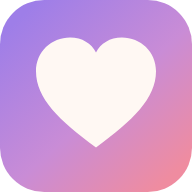
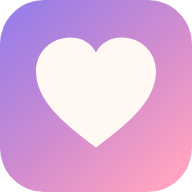
Repaginada visual: mais rosa, tema princesa discreto, toques fluidos
- Novo acento --rosa (calibrado pra WCAG AA) usado como cor secundária:
  pílula da aba ativa, chip/filtro selecionado (Consultas, Mural,
  seletor de bichinho), chips de horário rápido. --lavanda continua
  sendo a cor primária de botões/links — rosa é tempero, não troca.
- Gradiente do cabeçalho e brilho da carteirinha mais quentes/rosados.
- Ícone do app e logo regenerados pra combinar com o gradiente novo
  (coração da marca agora é rosa).
- Nova curva de easing --rebote (leve quique na soltura do toque, sem
  pesar no aperto) aplicada em cards, botões, filtros, atalhos e chips.
- Anel de brilho rosa sutil ao tocar num card, que some com a mesma
  curva de retorno.

Changed region(s): [[0.6562, 0.6875, 1.0, 1.0]]

diff --git a/index.html b/index.html
@@ -27,6 +27,12 @@
   --sol:#FFC94A;
   --ceu:#6FBBEE;
   --uva:#E6A2D6;
+  --rosa:#C93468;
+  --rosa-clara:#FCE0ED;
+  --rosa-sombra:#A22752;
+  /* Curva com leve "quique" pro momento de soltar o toque — o aperto em
+     si continua rápido (Emil), só o retorno ganha um pouco de vida (Jhey). */
+  --rebote:cubic-bezier(.34,1.56,.64,1);
 }
 *{box-sizing:border-box;-webkit-tap-highlight-color:transparent}
 [hidden]{display:none!important}
@@ -68,10 +74,10 @@ svg{display:block}
 .carteirinha{
   position:relative;width:100%;text-align:left;background:var(--nuvem);
   border-radius:26px 26px 10px 10px;padding:18px 18px 24px;
-  box-shadow:0 10px 0 -2px rgba(160,143,230,.16), 0 20px 34px -20px rgba(70,52,81,.5);
-  transition:transform .16s
+  box-shadow:0 10px 0 -2px rgba(224,120,164,.18), 0 20px 34px -20px rgba(70,52,81,.5);
+  transition:transform .3s var(--rebote)
 }
-.carteirinha:active{transform:scale(.985)}
+.carteirinha:active{transform:scale(.982);transition-duration:.09s;transition-timing-function:ease-out}
 .carteirinha::after{
   content:"";position:absolute;left:0;right:0;bottom:-9px;height:10px;
   background:radial-gradient(circle at 6px -1px, transparent 6px, var(--nuvem) 6.5px) repeat-x;
@@ -85,7 +91,7 @@ svg{display:block}
 .cart-topo{display:flex;gap:14px;align-items:center}
 .avatar{
   width:66px;height:66px;flex:0 0 66px;border-radius:23px;display:grid;place-items:center;
-  font-size:35px;background:linear-gradient(160deg,#FFE9F3,#EAE2FF);
+  font-size:35px;background:linear-gradient(160deg,#FFDCEC,#EAE2FF);
   box-shadow:inset 0 -3px 0 rgba(70,52,81,.05);
   animation:pula 3s ease-in-out infinite
 }
@@ -106,7 +112,7 @@ svg{display:block}
   margin:0 -16px;padding:16px 22px 96px;
   background:
     linear-gradient(180deg, rgba(40,24,54,.16), rgba(40,24,54,0) 55%),
-    linear-gradient(158deg,#9E7EE8 0%,#C98CD6 48%,#EF8CA0 100%);
+    linear-gradient(158deg,#9C7EE6 0%,#D48DCE 48%,#FFA3C0 100%);
   border-radius:0 0 36px 36px;color:#fff;position:relative;overflow:hidden
 }
 .hero::after{
@@ -127,9 +133,9 @@ svg{display:block}
   flex:1;background:var(--nuvem);border-radius:18px;padding:13px 8px 11px;
   display:flex;flex-direction:column;align-items:center;gap:7px;
   font-size:11.5px;font-weight:700;color:var(--tinta2);
-  box-shadow:0 3px 0 -1px rgba(70,52,81,.05);transition:transform .15s
+  box-shadow:0 3px 0 -1px rgba(70,52,81,.05);transition:transform .32s var(--rebote)
 }
-.atalho:active{transform:scale(.95)}
+.atalho:active{transform:scale(.93);transition-duration:.09s;transition-timing-function:ease-out}
 .atalho svg{width:22px;height:22px}
 .ic{fill:none;stroke:currentColor;stroke-width:1.8;stroke-linecap:round;stroke-linejoin:round}
 .ic.mini{width:15px;height:15px;stroke-width:2}
@@ -151,8 +157,8 @@ svg{display:block}
   background:var(--nuvem);border-radius:22px;padding:15px;margin-bottom:10px;
   box-shadow:0 3px 0 -1px rgba(70,52,81,.045), 0 12px 20px -16px rgba(70,52,81,.55)
 }
-.card.link{width:100%;text-align:left;display:block;transition:transform .15s}
-.card.link:active{transform:scale(.978)}
+.card.link{width:100%;text-align:left;display:block;transition:transform .32s var(--rebote),box-shadow .32s var(--rebote)}
+.card.link:active{transform:scale(.972);box-shadow:0 0 0 3px rgba(201,52,104,.16),0 3px 0 -1px rgba(70,52,81,.045),0 12px 20px -16px rgba(70,52,81,.55);transition-duration:.09s;transition-timing-function:ease-out}
 .card.fixado{border:2px solid #FFDE94;background:#FFFDF6;box-shadow:0 3px 0 -1px rgba(192,139,20,.3),0 12px 20px -16px rgba(70,52,81,.55)}
 .card h3{font-size:16.5px}
 .card .sub{color:var(--tinta2);font-size:13.5px;font-weight:600;margin-top:3px}
@@ -182,13 +188,13 @@ svg{display:block}
 /* ---------- filtros ---------- */
 .filtros{display:flex;gap:8px;overflow-x:auto;padding:2px 4px 14px;scrollbar-width:none}
 .filtros::-webkit-scrollbar{display:none}
-.filtro{border-radius:999px;padding:8px 14px;font-size:13.5px;font-weight:700;background:var(--nuvem);color:var(--tinta2);white-space:nowrap;box-shadow:0 3px 0 -1px rgba(70,52,81,.055);transition:transform .15s}
-.filtro[aria-pressed="true"]{background:var(--tinta);color:#fff}
-.filtro:active{transform:scale(.94)}
+.filtro{border-radius:999px;padding:8px 14px;font-size:13.5px;font-weight:700;background:var(--nuvem);color:var(--tinta2);white-space:nowrap;box-shadow:0 3px 0 -1px rgba(70,52,81,.055);transition:transform .3s var(--rebote),background .15s,color .15s}
+.filtro[aria-pressed="true"]{background:var(--rosa);color:#fff}
+.filtro:active{transform:scale(.92);transition-duration:.09s;transition-timing-function:ease-out}
 
 /* ---------- botões ---------- */
-.btn{display:inline-flex;align-items:center;justify-content:center;gap:8px;font-family:"Baloo 2";font-weight:700;font-size:16px;padding:13px 20px;border-radius:17px;background:var(--lavanda);color:#fff;box-shadow:0 5px 0 var(--lavanda-sombra);transition:transform .11s,box-shadow .11s;width:100%}
-.btn:active{transform:translateY(4px);box-shadow:0 1px 0 var(--lavanda-sombra)}
+.btn{display:inline-flex;align-items:center;justify-content:center;gap:8px;font-family:"Baloo 2";font-weight:700;font-size:16px;padding:13px 20px;border-radius:17px;background:var(--lavanda);color:#fff;box-shadow:0 5px 0 var(--lavanda-sombra);transition:transform .34s var(--rebote),box-shadow .34s var(--rebote);width:100%}
+.btn:active{transform:translateY(4px);box-shadow:0 1px 0 var(--lavanda-sombra);transition-duration:.08s;transition-timing-function:ease-out}
 .btn:disabled{opacity:.55}
 .btn.claro{background:var(--nuvem);color:var(--tinta);box-shadow:0 5px 0 var(--linha)}
 .btn.claro:active{box-shadow:0 1px 0 var(--linha)}
@@ -208,7 +214,7 @@ svg{display:block}
 .aba svg{width:23px;height:23px;fill:none;stroke:currentColor;stroke-width:1.9;stroke-linecap:round;stroke-linejoin:round;transition:transform .3s cubic-bezier(.2,1.7,.5,1)}
 .aba[aria-current="true"]{color:var(--tinta)}
 .aba[aria-current="true"] svg{transform:translateY(-2px) scale(1.1);stroke-width:2.2}
-.aba[aria-current="true"]::before{content:"";position:absolute;top:-3px;width:46px;height:34px;border-radius:12px;background:#F1E9FA;z-index:-1;animation:brota .28s cubic-bezier(.2,1.6,.5,1)}
+.aba[aria-current="true"]::before{content:"";position:absolute;top:-3px;width:46px;height:34px;border-radius:12px;background:var(--rosa-clara);z-index:-1;animation:brota .28s cubic-bezier(.2,1.6,.5,1)}
 @keyframes brota{from{transform:scale(.5);opacity:0}to{transform:scale(1);opacity:1}}
 
 /* ---------- botão flutuante ---------- */
@@ -218,11 +224,11 @@ svg{display:block}
   display:grid;place-items:center;
   box-shadow:0 6px 0 #E0644E, 0 16px 24px -12px rgba(224,100,78,.85);
   opacity:0;transform:scale(.9);
-  transition:transform .11s,box-shadow .11s,opacity .18s ease
+  transition:transform .32s var(--rebote),box-shadow .32s var(--rebote),opacity .18s ease
 }
 .mais.visivel{opacity:1;transform:scale(1)}
 .mais svg{width:26px;height:26px;stroke:currentColor;stroke-width:2.6;stroke-linecap:round;filter:drop-shadow(0 1px 1px rgba(70,52,81,.28))}
-.mais:active{transform:translateY(5px) scale(.96);box-shadow:0 1px 0 #E0644E}
+.mais:active{transform:translateY(5px) scale(.96);box-shadow:0 1px 0 #E0644E;transition-duration:.08s;transition-timing-function:ease-out}
 
 /* ---------- folha ---------- */
 .fundo{position:fixed;inset:0;background:rgba(70,52,81,.45);z-index:50;opacity:0;pointer-events:none;transition:opacity .25s}
@@ -239,13 +245,13 @@ textarea{min-height:90px;resize:vertical;line-height:1.55}
 .grade-horas{display:grid;grid-template-columns:repeat(auto-fill,minmax(64px,1fr));gap:7px;margin-top:6px}
 .hora{
   padding:10px 4px;border-radius:13px;background:var(--nuvem);border:2px solid var(--linha);
-  font-weight:700;font-size:14px;color:var(--tinta2);transition:transform .12s
+  font-weight:700;font-size:14px;color:var(--tinta2);transition:transform .22s var(--rebote)
 }
-.hora:active{transform:scale(.93)}
+.hora:active{transform:scale(.91);transition-duration:.07s;transition-timing-function:ease-out}
 .hora.on{background:var(--lavanda);border-color:var(--lavanda);color:#fff}
 .receitas{display:flex;gap:7px;flex-wrap:wrap;margin-top:8px}
-.receita{padding:8px 13px;border-radius:999px;background:#F1E9FA;color:#6B5C77;font-size:13px;font-weight:700}
-.receita:active{transform:scale(.94)}
+.receita{padding:8px 13px;border-radius:999px;background:var(--rosa-clara);color:var(--rosa-sombra);font-size:13px;font-weight:700;transition:transform .22s var(--rebote)}
+.receita:active{transform:scale(.92);transition-duration:.07s;transition-timing-function:ease-out}
 .resumo-horas{font-size:13.5px;font-weight:700;color:var(--tinta);margin-top:12px;min-height:20px}
 .dupla{display:flex;gap:10px}
 .dupla>div{flex:1}
@@ -294,8 +300,8 @@ textarea{min-height:90px;resize:vertical;line-height:1.55}
 /* ---------- fotos anexadas ---------- */
 .anexos{display:flex;flex-wrap:wrap;gap:9px;margin:8px 0 4px}
 .anexo{position:relative;width:72px;height:72px}
-.anexo-foto{width:100%;height:100%;border-radius:15px;background-size:cover;background-position:center;border:2px solid var(--linha);transition:transform .15s}
-.anexo-foto:active{transform:scale(.94)}
+.anexo-foto{width:100%;height:100%;border-radius:15px;background-size:cover;background-position:center;border:2px solid var(--linha);transition:transform .22s var(--rebote)}
+.anexo-foto:active{transform:scale(.92);transition-duration:.07s;transition-timing-function:ease-out}
 .anexo-apagar{position:absolute;top:-6px;right:-6px;width:23px;height:23px;border-radius:50%;background:var(--tinta);color:#fff;display:grid;place-items:center;box-shadow:0 2px 4px rgba(0,0,0,.25)}
 .anexo-apagar svg{width:11px;height:11px;stroke-width:2.6}
 .anexo-esqueleto{width:72px;height:72px;border-radius:15px}

diff --git a/sw.js b/sw.js
@@ -1,5 +1,5 @@
 // Troque a versão sempre que atualizar o app, pro celular pegar a versão nova.
-const VERSAO = 'caderneta-v13';
+const VERSAO = 'caderneta-v14';
 const ARQUIVOS = [
   './', './index.html', './store-firestore.js',
   './manifest.json', './icon-192.png', './icon-512.png', './icon-maskable.png', './logo.png', './logo-branco.png'

diff --git a/CLAUDE.md b/CLAUDE.md
@@ -155,12 +155,23 @@ existem por causa disso: datas reais de vacinação variam por atraso, doença, 
 
 ### Sistema visual (cores, ícones, marca)
 
-Os tokens de cor ficam em `:root` no `<style>`. `--lavanda` e `--tinta2` foram calibrados para passar
-WCAG AA (contraste ≥4.5:1) em todo uso real como texto ou texto-sobre-fundo — foram medidos com a fórmula de
-luminância relativa do WCAG, não escolhidos de olho. Ao trocar qualquer cor usada como texto ou como fundo
-por trás de texto, meça o contraste antes de assumir que "parece dar" — tons pastel bonitos no editor
-frequentemente falham em contraste sob luz de sol ou pra quem tem baixa visão, o público real deste app
-(cuidadores, às vezes avós).
+Os tokens de cor ficam em `:root` no `<style>`. `--lavanda`, `--tinta2` e `--rosa` foram calibrados para
+passar WCAG AA (contraste ≥4.5:1) em todo uso real como texto ou texto-sobre-fundo — foram medidos com a
+fórmula de luminância relativa do WCAG, não escolhidos de olho (`--rosa:#C93468` dá 5.03:1 com texto branco
+em cima; tons de rosa mais claros/vivos que isso, testados durante a repaginada "tema princesa", ficavam
+todos abaixo de 3:1). Ao trocar qualquer cor usada como texto ou como fundo por trás de texto, meça o
+contraste antes de assumir que "parece dar" — tons pastel bonitos no editor frequentemente falham em
+contraste sob luz de sol ou pra quem tem baixa visão, o público real deste app (cuidadores, às vezes avós).
+`--rosa`/`--rosa-clara`/`--rosa-sombra` são um acento *secundário* (estado selecionado de filtro/chip,
+pílula da aba ativa, brilho da carteirinha) — `--lavanda` continua sendo a cor primária de ação (botões,
+links "ver tudo"). A ideia é rosa como tempero, não substituição.
+
+`--rebote:cubic-bezier(.34,1.56,.64,1)` é a curva de "soltar o toque" usada nos elementos interativos
+(cards, filtros, botões, chips) — o aperto (`:active`) continua rápido e sem exagero (~0.07-0.09s, `ease-out`,
+sem overshoot, pra não pesar em ações frequentes), só a volta ao estado normal usa essa curva com leve
+"quique" (~0.22-0.34s conforme o elemento). Ao adicionar um novo elemento tocável com feedback de escala,
+siga esse padrão — duas declarações de transição, uma no seletor base (com `--rebote`) e outra em `:active`
+que sobrescreve `transition-duration`/`transition-timing-function` pra algo mais seco.
 
 **Armadilha de escopo já corrigida uma vez, não reintroduzir**: existe `.eu{...}` (estilo base do botão-avatar
 redondo, fundo `--lavanda` sólido) e `.hero .eu{...}` (variante translúcida, só para quando o botão está
